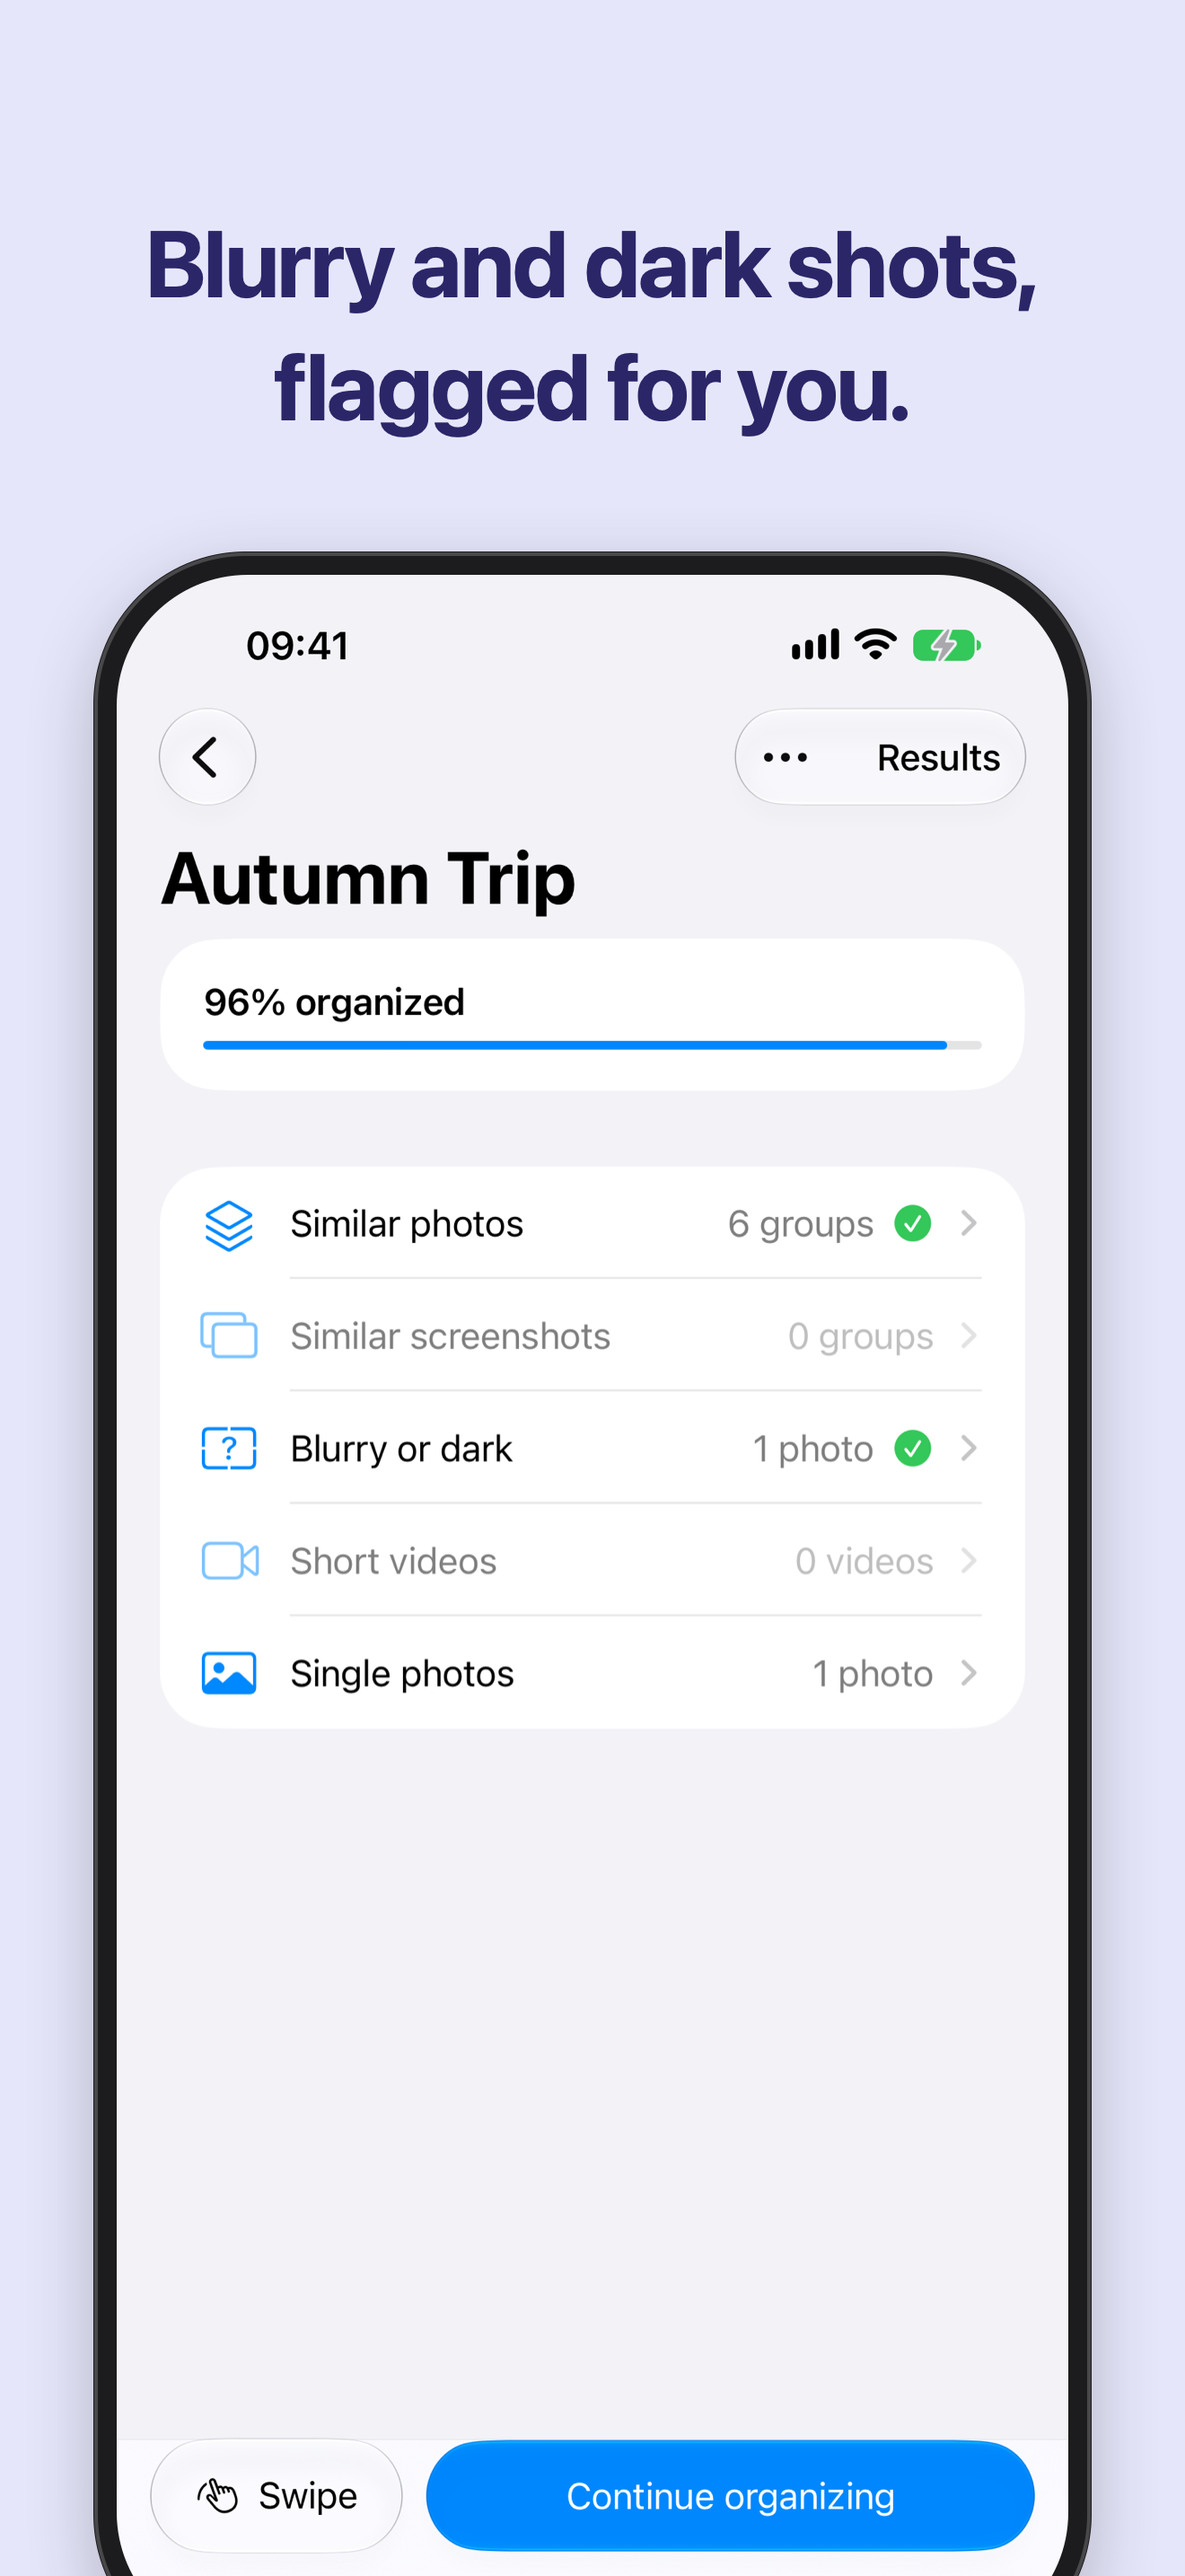
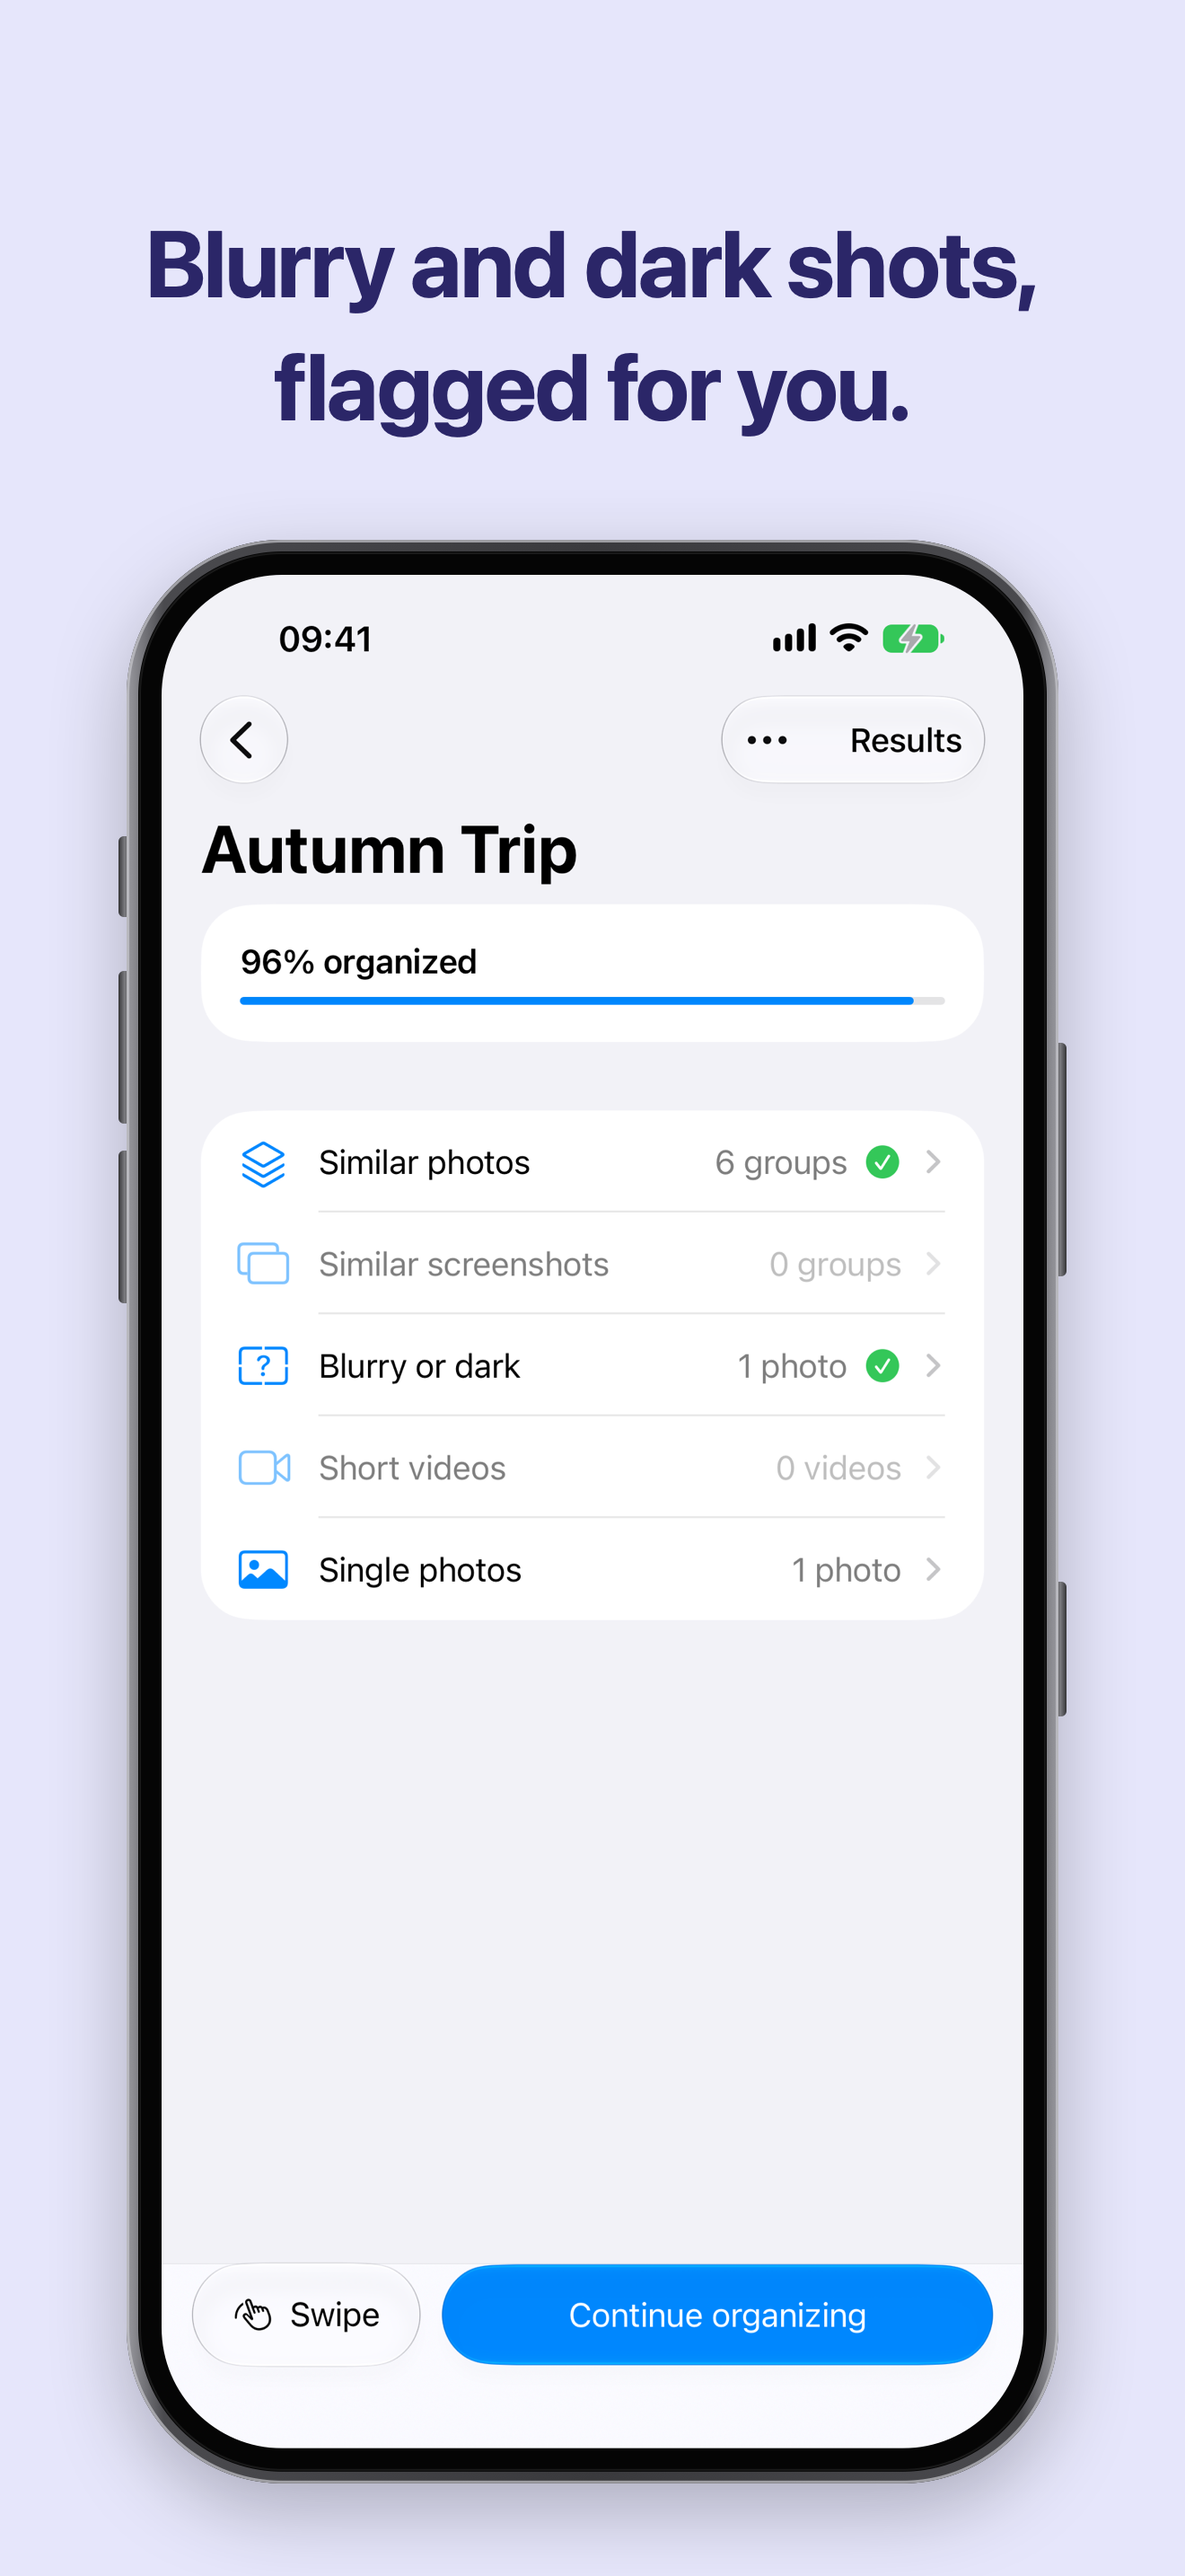
docs(release): screenshots show the whole iPhone with titanium band and side buttons

Changed region(s): [[0.0621, 0.1862, 0.9318, 1.0], [0.6212, 0.2793, 0.6523, 0.3103]]

diff --git a/scripts/make_store_screens.swift b/scripts/make_store_screens.swift
@@ -84,30 +84,70 @@ for slide in slides {
     text.draw(with: CGRect(x: textBox.minX, y: textBox.minY + (textBox.height - measured.height) / 2,
                            width: textBox.width, height: measured.height), options: [.usesLineFragmentOrigin])
 
-    // Phone: screen 1060 wide, frame 26 px, runs off the bottom edge.
-    let screenW: CGFloat = 1060, scale = screenW / CGFloat(shot.width)
+    // Phone: the whole device is shown, like Apple's own product shots — titanium band, black bezel, side buttons.
+    let screenW: CGFloat = 960, scale = screenW / CGFloat(shot.width)
     let screenH = CGFloat(shot.height) * scale
-    let bezel: CGFloat = 26
+    let bezel: CGFloat = 26, band: CGFloat = 13
     let screenTop = H - 640
     let screen = CGRect(x: (W - screenW) / 2, y: screenTop - screenH, width: screenW, height: screenH)
-    let frame = screen.insetBy(dx: -bezel, dy: -bezel)
+    let screenRadius = screenW * 0.14
+    let glass = screen.insetBy(dx: -bezel, dy: -bezel)            // black glass edge
+    let body = glass.insetBy(dx: -band, dy: -band)                // titanium band
+    let bodyRadius = screenRadius + bezel + band
+
+    // Side buttons sit behind the band so only their outer edge shows.
+    func button(_ x: CGFloat, _ topFromBody: CGFloat, _ length: CGFloat) {
+        let r = CGRect(x: x, y: body.maxY - topFromBody - length, width: 14, height: length)
+        let g = CGGradient(colorsSpace: CGColorSpaceCreateDeviceRGB(),
+                           colors: [hex(0x3A3A3C).cgColor, hex(0x8E8E93).cgColor, hex(0x3A3A3C).cgColor] as CFArray, locations: [0, 0.5, 1])!
+        ctx.saveGState()
+        ctx.addPath(roundedPath(r, 6)); ctx.clip()
+        ctx.drawLinearGradient(g, start: CGPoint(x: r.minX, y: 0), end: CGPoint(x: r.maxX, y: 0), options: [])
+        ctx.restoreGState()
+    }
+    let left = body.minX - 9, right = body.maxX - 5
+    button(left, 330, 90)    // action button
+    button(left, 480, 170)   // volume up
+    button(left, 680, 170)   // volume down
+    button(right, 560, 260)  // side button
+    button(right, 1160, 150) // camera control
+
+    // Body with a soft floor shadow.
     ctx.saveGState()
-    ctx.setShadow(offset: CGSize(width: 0, height: -24), blur: 80, color: NSColor.black.withAlphaComponent(0.22).cgColor)
-    ctx.addPath(roundedPath(frame, 170))
-    ctx.setFillColor(hex(0x1C1C1E).cgColor)
+    ctx.setShadow(offset: CGSize(width: 0, height: -30), blur: 90, color: NSColor.black.withAlphaComponent(0.25).cgColor)
+    ctx.addPath(roundedPath(body, bodyRadius))
+    ctx.setFillColor(hex(0x2C2C2E).cgColor)
     ctx.fillPath()
     ctx.restoreGState()
-    // Thin metal edge
-    ctx.addPath(roundedPath(frame.insetBy(dx: 3, dy: 3), 167))
-    ctx.setStrokeColor(hex(0x48484A).cgColor)
-    ctx.setLineWidth(4)
+    // Brushed titanium: a horizontal gradient that is lighter at the edges, as light catches the rounded sides.
+    ctx.saveGState()
+    ctx.addPath(roundedPath(body, bodyRadius)); ctx.clip()
+    let metal = CGGradient(colorsSpace: CGColorSpaceCreateDeviceRGB(),
+                           colors: [hex(0x9A9AA0).cgColor, hex(0x4A4A4E).cgColor, hex(0x3A3A3D).cgColor,
+                                    hex(0x4A4A4E).cgColor, hex(0x9A9AA0).cgColor] as CFArray,
+                           locations: [0, 0.04, 0.5, 0.96, 1])!
+    ctx.drawLinearGradient(metal, start: CGPoint(x: body.minX, y: 0), end: CGPoint(x: body.maxX, y: 0), options: [])
+    ctx.restoreGState()
+    // Bright rim on the outer edge
+    ctx.addPath(roundedPath(body.insetBy(dx: 1.5, dy: 1.5), bodyRadius - 1.5))
+    ctx.setStrokeColor(hex(0xC7C7CC).withAlphaComponent(0.7).cgColor)
+    ctx.setLineWidth(3)
     ctx.strokePath()
+    // Black glass bezel
+    ctx.addPath(roundedPath(glass, screenRadius + bezel))
+    ctx.setFillColor(hex(0x050505).cgColor)
+    ctx.fillPath()
     // Screen
     ctx.saveGState()
-    ctx.addPath(roundedPath(screen, 146))
+    ctx.addPath(roundedPath(screen, screenRadius))
     ctx.clip()
     ctx.draw(shot, in: screen)
     ctx.restoreGState()
+    // Faint glass reflection across the top of the bezel
+    ctx.addPath(roundedPath(glass.insetBy(dx: 2, dy: 2), screenRadius + bezel - 2))
+    ctx.setStrokeColor(NSColor.white.withAlphaComponent(0.08).cgColor)
+    ctx.setLineWidth(2)
+    ctx.strokePath()
     // The simulator screenshot already shows the Dynamic Island.
     NSGraphicsContext.restoreGraphicsState()
     let png = rep.representation(using: .png, properties: [:])!
